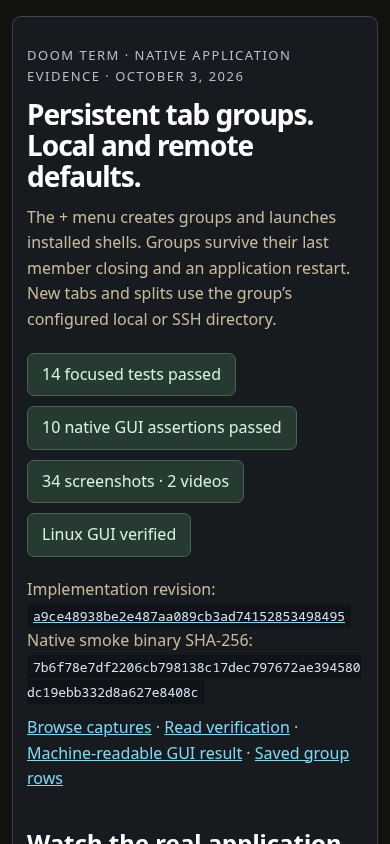
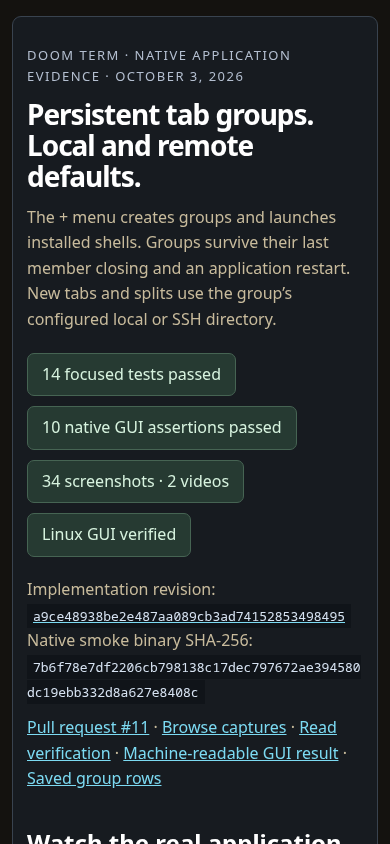
Link the tab group evidence to PR 11

Changed region(s): [[0.0615, 0.8318, 0.8923, 0.955]]

diff --git a/evidence.html b/evidence.html
@@ -406,7 +406,7 @@
 <p>The + menu creates groups and launches installed shells. Groups survive their last member closing and an application restart. New tabs and splits use the group’s configured local or SSH directory.</p>
 <div class="tg-meta"><span>14 focused tests passed</span><span>10 native GUI assertions passed</span><span>34 screenshots · 2 videos</span><span>Linux GUI verified</span></div>
 <p>Implementation revision: <a href="https://github.com/CMLeadmon/Doom-Term/commit/a9ce48938be2e487aa089cb3ad74152853498495"><code>a9ce48938be2e487aa089cb3ad74152853498495</code></a><br>Native smoke binary SHA-256: <code>7b6f78e7df2206cb798138c17dec797672ae394580dc19ebb332d8a627e8408c</code></p>
-<p><a href="#tg-gallery">Browse captures</a> · <a href="#tg-results">Read verification</a> · <a href="evidence/tab-groups/smoke/result.json">Machine-readable GUI result</a> · <a href="evidence/tab-groups/persisted-groups.json">Saved group rows</a></p>
+<p><a href="https://github.com/CMLeadmon/Doom-Term/pull/11">Pull request #11</a> · <a href="#tg-gallery">Browse captures</a> · <a href="#tg-results">Read verification</a> · <a href="evidence/tab-groups/smoke/result.json">Machine-readable GUI result</a> · <a href="evidence/tab-groups/persisted-groups.json">Saved group rows</a></p>
 <h2>Watch the real application</h2>
 <div class="tg-grid"><figure><video controls preload="metadata" src="evidence/tab-groups/local-demo.mp4" poster="evidence/tab-groups/38-vertical-local-split.png" aria-label="Local group directory demonstration"></video><figcaption><h3>Local directory in a new pane</h3>Native screen recording; idle time removed. The group default applies after an existing pane changes directory.</figcaption></figure><figure><video controls preload="metadata" src="evidence/tab-groups/remote-session-clean.mp4" poster="evidence/tab-groups/47-remote-safe-split.png" aria-label="Authenticated remote terminal demonstration"></video><figcaption><h3>Real remote directory verification</h3>Post-authentication recording: remote pwd reports the configured /tmp while an existing pane is elsewhere.</figcaption></figure></div>
 <div class="tg-notes"><p>Captures come from the actual Doom Term binary in an isolated Ubuntu 24.04 Xvfb desktop. Manual SSH checks used a real authorized remote machine and password prompts for both new tabs and splits. The publishable captures begin after authentication; private connection details and credentials are excluded. Manual clips precede the final tab-movement fixes; the automated captures and JSON identify the final tested binary. The binary was built and verified before the prescribed final Rust formatting pass.</p></div>
@@ -439,6 +439,7 @@ cargo build -p warp --bin doomterm --no-default-features --features doomterm,gui
 </section>
 <script>(() => { const root=document.getElementById('tab-groups-proof'); const shots=[...root.querySelectorAll('.tg-shot')]; root.querySelectorAll('[data-filter]').forEach(button => button.addEventListener('click', () => { root.querySelectorAll('[data-filter]').forEach(b => b.setAttribute('aria-pressed',String(b===button))); shots.forEach(shot => shot.hidden=button.dataset.filter!=='all'&&shot.dataset.category!==button.dataset.filter); root.querySelector('.tg-count').textContent=shots.filter(s=>!s.hidden).length+' captures'; })); const dialog=root.querySelector('dialog'); shots.forEach(shot => shot.querySelector('button').addEventListener('click',()=> { const image=shot.querySelector('img'); const expanded=dialog.querySelector('img'); expanded.src=image.src; expanded.alt=image.alt; dialog.showModal(); })); dialog.querySelector('button').addEventListener('click',()=>dialog.close()); })();</script>
 <!-- tab-groups-proof:end -->
+
 
 
   <div class="container">

diff --git a/evidence/tab-groups/report.html b/evidence/tab-groups/report.html
@@ -38,7 +38,7 @@
 <p>The + menu creates groups and launches installed shells. Groups survive their last member closing and an application restart. New tabs and splits use the group’s configured local or SSH directory.</p>
 <div class="tg-meta"><span>14 focused tests passed</span><span>10 native GUI assertions passed</span><span>34 screenshots · 2 videos</span><span>Linux GUI verified</span></div>
 <p>Implementation revision: <a href="https://github.com/CMLeadmon/Doom-Term/commit/a9ce48938be2e487aa089cb3ad74152853498495"><code>a9ce48938be2e487aa089cb3ad74152853498495</code></a><br>Native smoke binary SHA-256: <code>7b6f78e7df2206cb798138c17dec797672ae394580dc19ebb332d8a627e8408c</code></p>
-<p><a href="#tg-gallery">Browse captures</a> · <a href="#tg-results">Read verification</a> · <a href="smoke/result.json">Machine-readable GUI result</a> · <a href="persisted-groups.json">Saved group rows</a></p>
+<p><a href="https://github.com/CMLeadmon/Doom-Term/pull/11">Pull request #11</a> · <a href="#tg-gallery">Browse captures</a> · <a href="#tg-results">Read verification</a> · <a href="smoke/result.json">Machine-readable GUI result</a> · <a href="persisted-groups.json">Saved group rows</a></p>
 <h2>Watch the real application</h2>
 <div class="tg-grid"><figure><video controls preload="metadata" src="local-demo.mp4" poster="38-vertical-local-split.png" aria-label="Local group directory demonstration"></video><figcaption><h3>Local directory in a new pane</h3>Native screen recording; idle time removed. The group default applies after an existing pane changes directory.</figcaption></figure><figure><video controls preload="metadata" src="remote-session-clean.mp4" poster="47-remote-safe-split.png" aria-label="Authenticated remote terminal demonstration"></video><figcaption><h3>Real remote directory verification</h3>Post-authentication recording: remote pwd reports the configured /tmp while an existing pane is elsewhere.</figcaption></figure></div>
 <div class="tg-notes"><p>Captures come from the actual Doom Term binary in an isolated Ubuntu 24.04 Xvfb desktop. Manual SSH checks used a real authorized remote machine and password prompts for both new tabs and splits. The publishable captures begin after authentication; private connection details and credentials are excluded. Manual clips precede the final tab-movement fixes; the automated captures and JSON identify the final tested binary. The binary was built and verified before the prescribed final Rust formatting pass.</p></div>

diff --git a/docs/superpowers/plans/2026-10-03-tab-groups-default-directories.md b/docs/superpowers/plans/2026-10-03-tab-groups-default-directories.md
@@ -110,7 +110,7 @@ link publishable report/artifacts and validation results from the PR.
 - [x] Independent review findings are resolved, including pending-shell timing, membership default synchronization, empty anchors and destination menus.
 - [x] The repository formatter ran after the final build/lint and native GUI checks; implementation is ready to commit.
 - [x] Evidence report is assembled and browser-checked at desktop/mobile sizes; localhost:8085 is serving the report.
-- [ ] Open the PR against main.
+- [x] [PR #11](https://github.com/CMLeadmon/Doom-Term/pull/11) is open against main from the feature worktree.
 
 ## Execution adjustment
 
